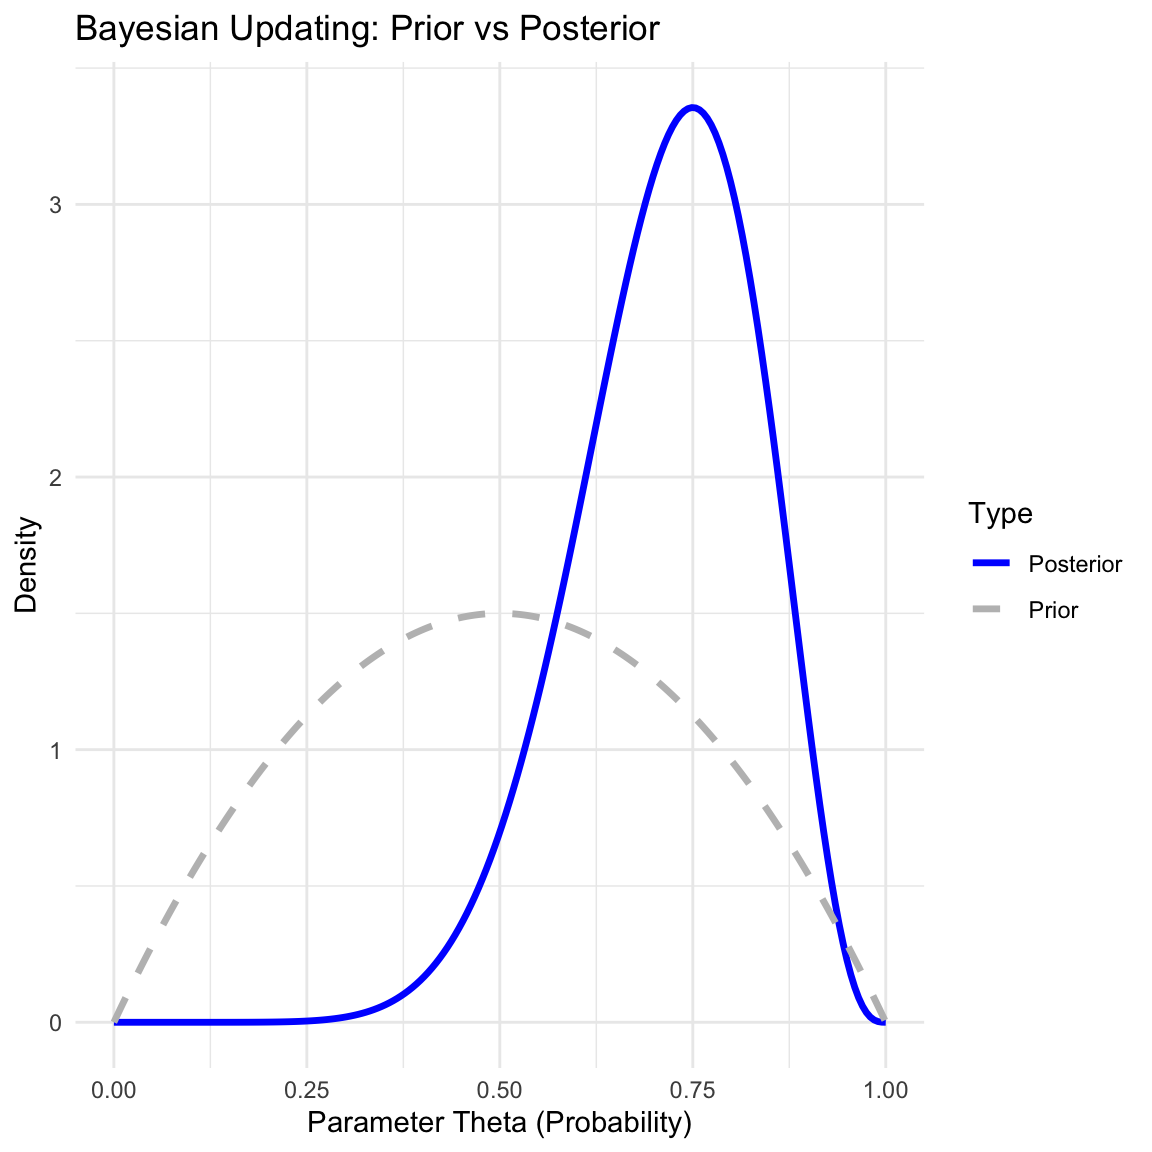
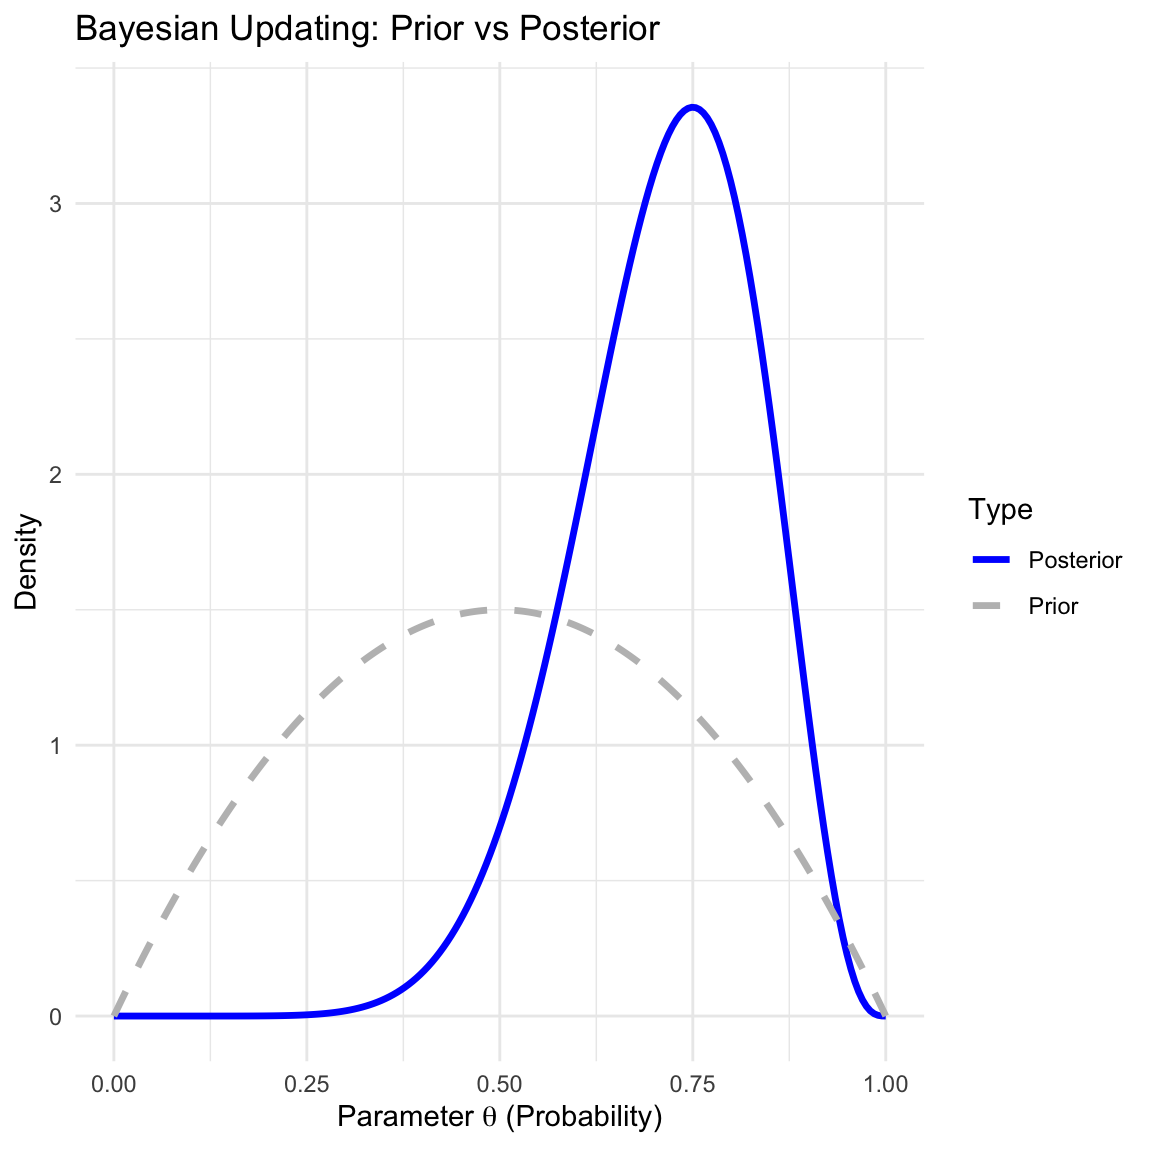
syn2GH from KNW5YYVTFD

diff --git a/teaching/stat850/mathstat/introstatinf.html b/teaching/stat850/mathstat/introstatinf.html
@@ -216,6 +216,7 @@ window.Quarto = {
   <ul>
   <li><a href="#frequentist-inference-fisher" id="toc-frequentist-inference-fisher" class="nav-link" data-scroll-target="#frequentist-inference-fisher"><span class="header-section-number">1.5.1</span> Frequentist Inference (Fisher)</a></li>
   <li><a href="#bayesian-inference" id="toc-bayesian-inference" class="nav-link" data-scroll-target="#bayesian-inference"><span class="header-section-number">1.5.2</span> Bayesian Inference</a></li>
+  <li><a href="#bayesian-prediction" id="toc-bayesian-prediction" class="nav-link" data-scroll-target="#bayesian-prediction"><span class="header-section-number">1.5.3</span> Bayesian Prediction</a></li>
   </ul></li>
   </ul>
 </nav>
@@ -265,11 +266,27 @@ window.Quarto = {
 </section>
 <section id="probability-vs.-statistics" class="level2" data-number="1.2">
 <h2 data-number="1.2" class="anchored" data-anchor-id="probability-vs.-statistics"><span class="header-section-number">1.2</span> Probability vs.&nbsp;Statistics</h2>
-<p>There is a fundamental distinction between probability and statistics regarding the parameter <span class="math inline">\(\theta\)</span>:</p>
+<p>There is a fundamental distinction between probability and statistics regarding the parameter <span class="math inline">\(\theta\)</span>. We can visualize this using a “shooting target” analogy:</p>
 <ul>
-<li><strong>Probability:</strong> <span class="math inline">\(\theta\)</span> is known. We ask questions about the data <span class="math inline">\(X\)</span>.</li>
-<li><strong>Statistics:</strong> <span class="math inline">\(\theta\)</span> is unknown. We use data <span class="math inline">\(X_1, \dots, X_n\)</span> to infer <span class="math inline">\(\theta\)</span> (from sample to population).</li>
+<li><p><strong><span class="math inline">\(\theta\)</span> (The Center):</strong> The true, unknown bullseye location.</p></li>
+<li><p><strong><span class="math inline">\(x\)</span> (The Shots):</strong> The observed holes on the target board.</p></li>
+<li><p><strong>Probability (Deductive):</strong> The center <span class="math inline">\(\theta\)</span> is <strong>known</strong>. We predict where the shots <span class="math inline">\(x\)</span> will land.</p></li>
+<li><p><strong>Statistics (Inductive):</strong> The shots <span class="math inline">\(x\)</span> are <strong>observed</strong> on the board. The center <span class="math inline">\(\theta\)</span> is unknown. We hypothesize different potential centers to see which one best explains the shots.</p></li>
 </ul>
+<div class="cell">
+<div class="cell-output-display">
+<div id="fig-prob-vs-stat-target" class="quarto-float quarto-figure quarto-figure-center anchored">
+<figure class="quarto-float quarto-float-fig figure">
+<div aria-describedby="fig-prob-vs-stat-target-caption-0ceaefa1-69ba-4598-a22c-09a6ac19f8ca">
+<img src="introstatinf_files/figure-html/fig-prob-vs-stat-target-1.png" class="img-fluid figure-img" width="576">
+</div>
+<figcaption class="quarto-float-caption-bottom quarto-float-caption quarto-float-fig" id="fig-prob-vs-stat-target-caption-0ceaefa1-69ba-4598-a22c-09a6ac19f8ca">
+Figure&nbsp;1.1: The Shooting Analogy. Left (Probability): The center <span class="math inline">\(\theta\)</span> is fixed; shots <span class="math inline">\(x\)</span> are generated around it. Right (Statistics): The shots <span class="math inline">\(x\)</span> are fixed on a square board; we test different hypothesized centers (colored circles) to see which <span class="math inline">\(\theta\)</span> fit the data best.
+</figcaption>
+</figure>
+</div>
+</div>
+</div>
 </section>
 <section id="the-likelihood-function" class="level2" data-number="1.3">
 <h2 data-number="1.3" class="anchored" data-anchor-id="the-likelihood-function"><span class="header-section-number">1.3</span> The Likelihood Function</h2>
@@ -340,10 +357,10 @@ window.Quarto = {
 <span id="cb1-12"><a href="#cb1-12" aria-hidden="true" tabindex="-1"></a><span class="fu">ggplot</span>(df, <span class="fu">aes</span>(<span class="at">x =</span> theta, <span class="at">y =</span> Likelihood)) <span class="sc">+</span></span>
 <span id="cb1-13"><a href="#cb1-13" aria-hidden="true" tabindex="-1"></a>  <span class="fu">geom_line</span>(<span class="at">color =</span> <span class="st">"darkblue"</span>, <span class="at">size =</span> <span class="fl">1.2</span>) <span class="sc">+</span></span>
 <span id="cb1-14"><a href="#cb1-14" aria-hidden="true" tabindex="-1"></a>  <span class="fu">geom_vline</span>(<span class="at">xintercept =</span> <span class="dv">2</span><span class="sc">/</span><span class="dv">3</span>, <span class="at">linetype =</span> <span class="st">"dashed"</span>, <span class="at">color =</span> <span class="st">"red"</span>) <span class="sc">+</span></span>
-<span id="cb1-15"><a href="#cb1-15" aria-hidden="true" tabindex="-1"></a>  <span class="fu">annotate</span>(<span class="st">"text"</span>, <span class="at">x =</span> <span class="dv">2</span><span class="sc">/</span><span class="dv">3</span>, <span class="at">y =</span> <span class="fl">0.02</span>, <span class="at">label =</span> <span class="st">"Max at 2/3"</span>, <span class="at">color =</span> <span class="st">"red"</span>, <span class="at">angle =</span> <span class="dv">90</span>, <span class="at">vjust =</span> <span class="sc">-</span><span class="fl">0.5</span>) <span class="sc">+</span></span>
-<span id="cb1-16"><a href="#cb1-16" aria-hidden="true" tabindex="-1"></a>  <span class="fu">labs</span>(<span class="at">title =</span> <span class="st">"Likelihood Function for Data {1, 0, 1}"</span>,</span>
-<span id="cb1-17"><a href="#cb1-17" aria-hidden="true" tabindex="-1"></a>       <span class="at">x =</span> <span class="st">"Parameter Theta (Probability of Heads)"</span>,</span>
-<span id="cb1-18"><a href="#cb1-18" aria-hidden="true" tabindex="-1"></a>       <span class="at">y =</span> <span class="st">"Likelihood"</span>) <span class="sc">+</span></span>
+<span id="cb1-15"><a href="#cb1-15" aria-hidden="true" tabindex="-1"></a>  <span class="fu">annotate</span>(<span class="st">"text"</span>, <span class="at">x =</span> <span class="dv">2</span><span class="sc">/</span><span class="dv">3</span>, <span class="at">y =</span> <span class="fl">0.02</span>, <span class="at">label =</span> <span class="st">"Max~at~2/3"</span>, <span class="at">color =</span> <span class="st">"red"</span>, <span class="at">angle =</span> <span class="dv">90</span>, <span class="at">vjust =</span> <span class="sc">-</span><span class="fl">0.5</span>, <span class="at">parse =</span> <span class="cn">TRUE</span>) <span class="sc">+</span></span>
+<span id="cb1-16"><a href="#cb1-16" aria-hidden="true" tabindex="-1"></a>  <span class="fu">labs</span>(<span class="at">title =</span> <span class="fu">expression</span>(<span class="fu">paste</span>(<span class="st">"Likelihood Function "</span>, <span class="fu">L</span>(theta), <span class="st">" for Data {1, 0, 1}"</span>)),</span>
+<span id="cb1-17"><a href="#cb1-17" aria-hidden="true" tabindex="-1"></a>       <span class="at">x =</span> <span class="fu">expression</span>(<span class="fu">paste</span>(<span class="st">"Parameter "</span>, theta, <span class="st">" (Probability of Heads)"</span>)),</span>
+<span id="cb1-18"><a href="#cb1-18" aria-hidden="true" tabindex="-1"></a>       <span class="at">y =</span> <span class="fu">expression</span>(Likelihood<span class="sc">~</span><span class="fu">L</span>(theta))) <span class="sc">+</span></span>
 <span id="cb1-19"><a href="#cb1-19" aria-hidden="true" tabindex="-1"></a>  <span class="fu">theme_minimal</span>()</span></code><button title="Copy to Clipboard" class="code-copy-button"><i class="bi"></i></button></pre></div>
 </details>
 <div class="cell-output-display">
@@ -353,7 +370,7 @@ window.Quarto = {
 <img src="introstatinf_files/figure-html/fig-likelihood-1.png" class="img-fluid figure-img" width="576">
 </div>
 <figcaption class="quarto-float-caption-bottom quarto-float-caption quarto-float-fig" id="fig-likelihood-caption-0ceaefa1-69ba-4598-a22c-09a6ac19f8ca">
-Figure&nbsp;1.1: The Likelihood Function <span class="math inline">\(L(   heta)\)</span> for data <span class="math inline">\(x=(1, 0, 1)\)</span>. The peak (MLE) is at $ heta_{ ext{MLE}} = 2/3$.
+Figure&nbsp;1.2: The Likelihood Function <span class="math inline">\(L(\theta)\)</span> for data <span class="math inline">\(x=(1, 0, 1)\)</span>. The peak (MLE) is at <span class="math inline">\(\theta_{\text{MLE}} = 2/3\)</span>.
 </figcaption>
 </figure>
 </div>
@@ -366,19 +383,27 @@ Figure&nbsp;1.1: The Likelihood Function <span class="math inline">\(L(   heta)\
 <p>We can categorize inference into four main types:</p>
 <div id="def-point-estimation" class="theorem definition">
 <p><span class="theorem-title"><strong>Definition 1.3 (Point Estimation)</strong></span> We use a single number to capture the parameter. <span class="math display">\[\hat{\theta} = \theta(X_1, \dots, X_n)\]</span></p>
-<p><strong>Example:</strong> We want to estimate the average height (<span class="math inline">\(\mu\)</span>) of all students in a university. We measure 100 students and calculate the sample mean <span class="math inline">\(\bar{x} = 170\)</span> cm. Our point estimate is <span class="math inline">\(\hat{\mu} = 170\)</span>.</p>
+</div>
+<div id="exm-point-est" class="theorem example">
+<p><span class="theorem-title"><strong>Example 1.3 (Estimating Average Height)</strong></span> We want to estimate the average height (<span class="math inline">\(\mu\)</span>) of all students in a university. We measure 100 students and calculate the sample mean <span class="math inline">\(\bar{x} = 170\)</span> cm. Our point estimate is <span class="math inline">\(\hat{\mu} = 170\)</span>.</p>
 </div>
 <div id="def-interval-estimation" class="theorem definition">
 <p><span class="theorem-title"><strong>Definition 1.4 (Interval Estimation)</strong></span> We construct an interval that likely contains the true parameter. <span class="math display">\[\theta \in (L(X_1, \dots, X_n), U(X_1, \dots, X_n))\]</span> The true parameter is within this interval.</p>
-<p><strong>Example:</strong> Using the same height data, we calculate a 95% Confidence Interval. We state: “We are 95% confident that the true average height is between 168 cm and 172 cm.”</p>
+</div>
+<div id="exm-interval-est" class="theorem example">
+<p><span class="theorem-title"><strong>Example 1.4 (Confidence Interval for Height)</strong></span> Using the same height data, we calculate a 95% Confidence Interval. We state: “We are 95% confident that the true average height is between 168 cm and 172 cm.”</p>
 </div>
 <div id="def-hypothesis-testing" class="theorem definition">
 <p><span class="theorem-title"><strong>Definition 1.5 (Hypothesis Testing)</strong></span> We test a specific theory about the parameter. <span class="math display">\[H_0: \theta = \theta_0 \quad \text{vs} \quad H_1: \theta \neq \theta_0\]</span> (Or one-sided alternatives like <span class="math inline">\(\theta &gt; \theta_0\)</span>).</p>
-<p><strong>Example:</strong> A manufacturer claims their soda bottles contain exactly 500ml (<span class="math inline">\(H_0: \mu = 500\)</span>). We measure a sample and find an average of 495ml. We perform a test to see if this difference is significant enough to reject the manufacturer’s claim.</p>
+</div>
+<div id="exm-hypothesis-test" class="theorem example">
+<p><span class="theorem-title"><strong>Example 1.5 (Testing Soda Volume)</strong></span> A manufacturer claims their soda bottles contain exactly 500ml (<span class="math inline">\(H_0: \mu = 500\)</span>). We measure a sample and find an average of 495ml. We perform a test to see if this difference is significant enough to reject the manufacturer’s claim.</p>
 </div>
 <div id="def-predictive-inference" class="theorem definition">
 <p><span class="theorem-title"><strong>Definition 1.6 (Predictive Inference)</strong></span> Given observed data <span class="math inline">\((X_1, Y_1), \dots, (X_n, Y_n)\)</span>, we want to predict a new observation <span class="math inline">\(Y_{n+1}\)</span> given <span class="math inline">\(X_{n+1}\)</span>. This is often the primary goal in <strong>Machine Learning</strong>.</p>
-<p><strong>Example:</strong> Based on data about house sizes (<span class="math inline">\(X\)</span>) and prices (<span class="math inline">\(Y\)</span>) from the last year, we want to predict the selling price (<span class="math inline">\(Y_{n+1}\)</span>) of a specific new house that is 2000 sq ft (<span class="math inline">\(X_{n+1}\)</span>).</p>
+</div>
+<div id="exm-predictive-inference" class="theorem example">
+<p><span class="theorem-title"><strong>Example 1.6 (Predicting House Prices)</strong></span> Based on data about house sizes (<span class="math inline">\(X\)</span>) and prices (<span class="math inline">\(Y\)</span>) from the last year, we want to predict the selling price (<span class="math inline">\(Y_{n+1}\)</span>) of a specific new house that is 2000 sq ft (<span class="math inline">\(X_{n+1}\)</span>).</p>
 </div>
 </section>
 <section id="standard-paradigms-for-inference" class="level2" data-number="1.5">
@@ -400,7 +425,7 @@ Figure&nbsp;1.1: The Likelihood Function <span class="math inline">\(L(   heta)\
 <img src="introstatinf_files/figure-html/fig-sampling-dist-1.png" class="img-fluid figure-img" width="576">
 </div>
 <figcaption class="quarto-float-caption-bottom quarto-float-caption quarto-float-fig" id="fig-sampling-dist-caption-0ceaefa1-69ba-4598-a22c-09a6ac19f8ca">
-Figure&nbsp;1.2: Frequentist Concept: The Sampling Distribution. The parameter theta is fixed (vertical line). The curve represents how the estimator (theta_hat) varies across many hypothetical samples.
+Figure&nbsp;1.3: Frequentist Concept: The Sampling Distribution. The parameter <span class="math inline">\(\theta\)</span> is fixed (vertical line). The curve represents how the estimator <span class="math inline">\(\hat{\theta}\)</span> varies across many hypothetical samples.
 </figcaption>
 </figure>
 </div>
@@ -424,13 +449,16 @@ Figure&nbsp;1.2: Frequentist Concept: The Sampling Distribution. The parameter t
 <img src="introstatinf_files/figure-html/fig-posterior-1.png" class="img-fluid figure-img" width="576">
 </div>
 <figcaption class="quarto-float-caption-bottom quarto-float-caption quarto-float-fig" id="fig-posterior-caption-0ceaefa1-69ba-4598-a22c-09a6ac19f8ca">
-Figure&nbsp;1.3: Bayesian Concept: Updating Beliefs. The Prior (dashed) is updated by the Data (Likelihood) to form the Posterior (solid). Theta is treated as a random variable.
+Figure&nbsp;1.4: Bayesian Concept: Updating Beliefs. The Prior (dashed) is updated by the Data (Likelihood) to form the Posterior (solid). <span class="math inline">\(\theta\)</span> is treated as a random variable.
 </figcaption>
 </figure>
 </div>
 </div>
 </div>
-<p>4.<strong>Bayesian Prediction</strong> The predictive density for a new observation <span class="math inline">\(x_{n+1}\)</span> is obtained by integrating over the posterior: <span class="math display">\[f(x_{n+1}|x) = \int f(x_{n+1}|\theta) \pi(\theta|x) d\theta\]</span></p>
+</section>
+<section id="bayesian-prediction" class="level3" data-number="1.5.3">
+<h3 data-number="1.5.3" class="anchored" data-anchor-id="bayesian-prediction"><span class="header-section-number">1.5.3</span> Bayesian Prediction</h3>
+<p>The predictive density for a new observation <span class="math inline">\(x_{n+1}\)</span> is obtained by integrating over the posterior: <span class="math display">\[f(x_{n+1}|x) = \int f(x_{n+1}|\theta) \pi(\theta|x) d\theta\]</span></p>
 
 
 </section>
